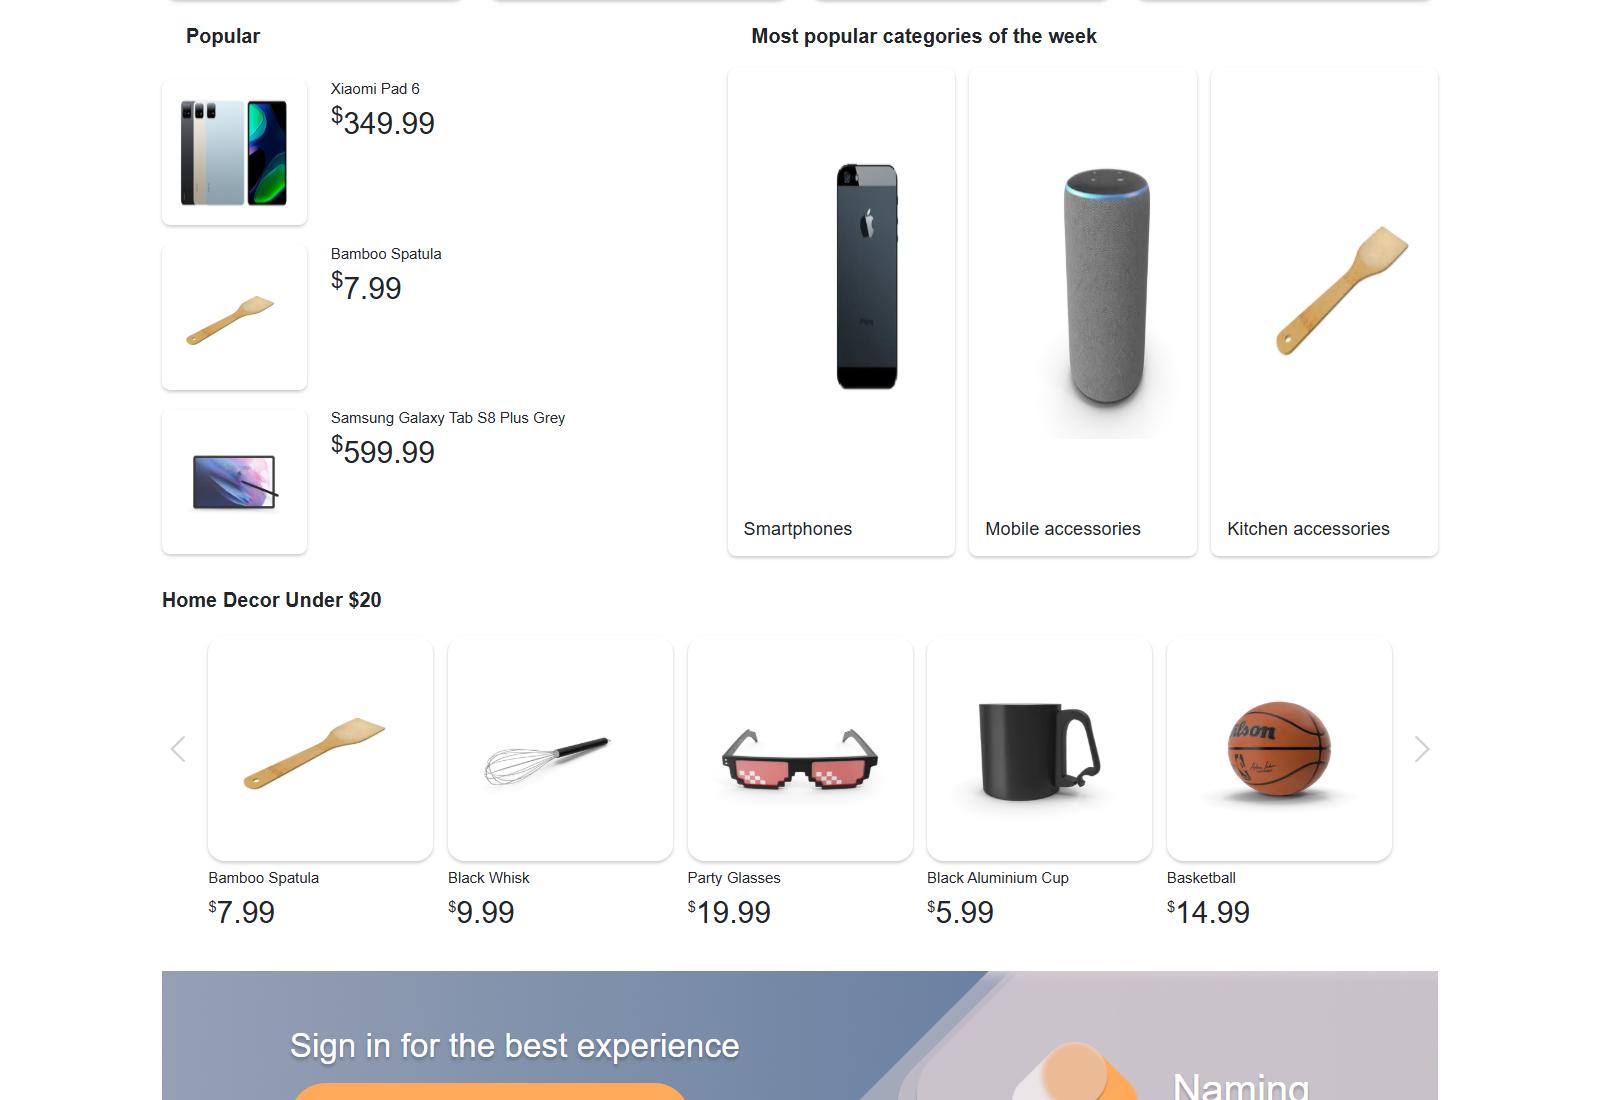
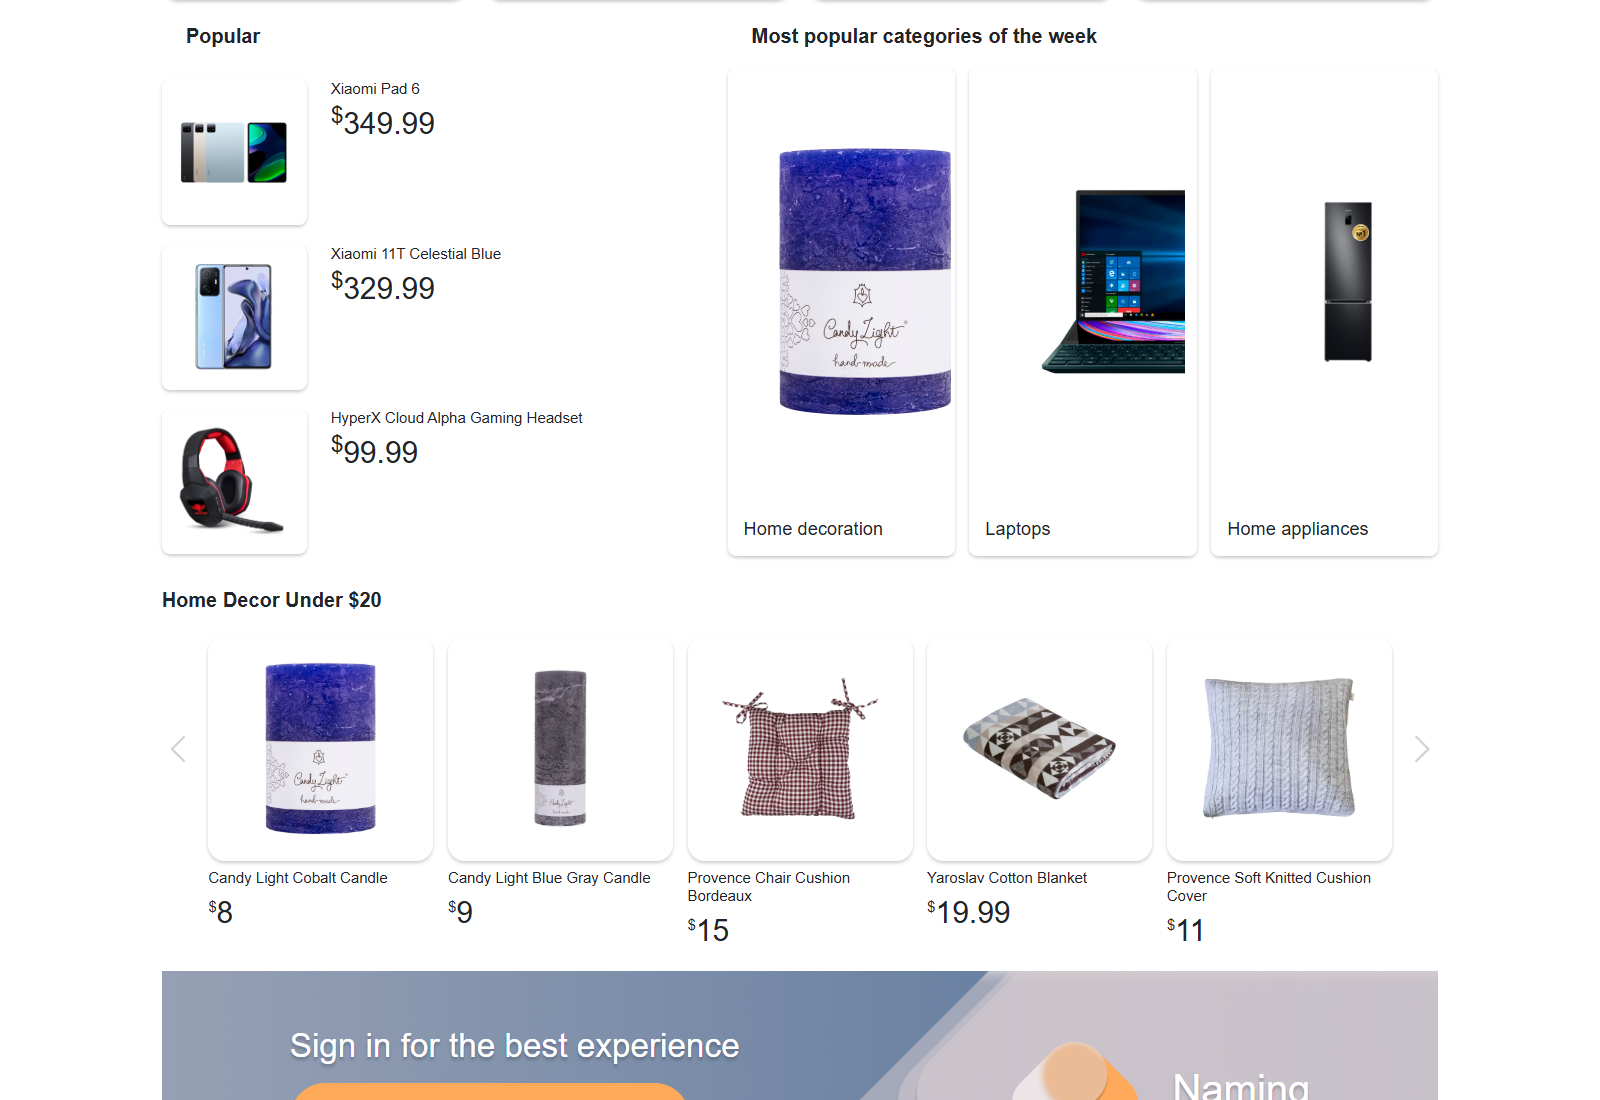
chore: update project overview and sign-in UI

diff --git a/wwwroot/js/site.js b/wwwroot/js/site.js
@@ -1,4 +1,4 @@
-// Please see documentation at https://learn.microsoft.com/aspnet/core/client-side/bundling-and-minification
+// Please see documentation at https://learn.microsoft.com/aspnet/core/client-side/bundling-and-minification
 // for details on configuring this project to bundle and minify static web assdo
 document.addEventListener("submit", e => {
     const form = e.target;
@@ -58,16 +58,32 @@ document.addEventListener("submit", e => {
     }
     if (form.id === "auth-modal-form") {
         e.preventDefault();
+        if (form.getAttribute("aria-busy") === "true") return;
 
         const messageEl = document.getElementById("message");
         const submitBtn = document.querySelector('[form="auth-modal-form"][type="submit"]');
+        const submitLabel = submitBtn?.querySelector(".auth-submit__label");
+        const progressEl = document.getElementById("auth-progress");
+        const modal = document.getElementById("authModal");
+        const controller = new AbortController();
+        const cancelRequest = () => controller.abort();
+        let signedIn = false;
 
+        form.setAttribute("aria-busy", "true");
         if (submitBtn) submitBtn.disabled = true;
+        submitBtn?.classList.add("is-loading");
+        if (submitLabel) submitLabel.textContent = "Signing in…";
+        if (progressEl) progressEl.hidden = true;
         if (messageEl) { messageEl.textContent = ""; messageEl.className = ""; }
+        modal?.addEventListener("hidden.bs.modal", cancelRequest, { once: true });
+        const progressTimer = setTimeout(() => {
+            if (progressEl) progressEl.hidden = false;
+        }, 4000);
 
         fetch("/Admin/Login", {
             method: 'POST',
-            body: new FormData(form)
+            body: new FormData(form),
+            signal: controller.signal
         })
             .then(r => {
                 if (r.status >= 500) {
@@ -77,6 +93,7 @@ document.addEventListener("submit", e => {
             })
             .then(j => {
                 if (j.status === 200) {
+                    signedIn = true;
                     window.location.reload();
                 } else {
                     if (messageEl) {
@@ -86,6 +103,7 @@ document.addEventListener("submit", e => {
                 }
             })
             .catch(error => {
+                if (error.name === "AbortError") return;
                 if (messageEl) {
                     messageEl.textContent = error instanceof TypeError
                         ? "Unable to reach the server. Check your connection and try again."
@@ -94,7 +112,15 @@ document.addEventListener("submit", e => {
                 }
             })
             .finally(() => {
-                if (submitBtn) submitBtn.disabled = false;
+                clearTimeout(progressTimer);
+                modal?.removeEventListener("hidden.bs.modal", cancelRequest);
+                if (progressEl) progressEl.hidden = true;
+                if (!signedIn) {
+                    form.removeAttribute("aria-busy");
+                    if (submitBtn) submitBtn.disabled = false;
+                    submitBtn?.classList.remove("is-loading");
+                    if (submitLabel) submitLabel.textContent = "Sign in";
+                }
             });
     }
     //Category

diff --git a/wwwroot/css/management-pages.css b/wwwroot/css/management-pages.css
@@ -505,6 +505,27 @@ body.theme-scope.modal-open, .theme-scope .modal {
     font-size: 14px;
     color: var(--ui-danger);
 }
+.auth-progress {
+    font-size: 14px;
+    color: var(--ui-muted);
+}
+.auth-submit {
+    min-width: 168px;
+}
+.auth-submit.is-loading {
+    cursor: wait;
+}
+.auth-submit__spinner {
+    display: none;
+}
+.auth-submit.is-loading .auth-submit__spinner {
+    display: inline-block;
+}
+@media (prefers-reduced-motion: reduce) {
+    .auth-submit__spinner {
+        animation: none;
+    }
+}
 @media (min-width: 992px) {
     .admin-sidebar {
         position: fixed !important;

diff --git a/README.md b/README.md
@@ -33,11 +33,15 @@ My main areas of responsibility were the backend API, data access and MVC produc
 
 The React storefront was built by the frontend team and has its own repository. These screenshots show it running locally with the deployed AMZN API and demo data from Azure SQL Database.
 
-**Homepage** with category sections and product collections.
+**Homepage overview** with three main categories, four product groups, popular items and the under-$20 collection.
 
+<p align="center">
 <a href="docs/images/storefront-home.png">
-  <img src="docs/images/storefront-home.png" alt="React storefront homepage with category cards and product sections from the AMZN API" width="900">
+  <img src="docs/images/storefront-home.png" alt="Complete React homepage overview with three main categories, four groups of four products, popular collections and products under $20" width="700">
 </a>
+</p>
+
+**[Open the full-size homepage overview](docs/images/storefront-home.png)**
 
 Click any preview to open the full-size screenshot.
 
@@ -54,7 +58,7 @@ Click any preview to open the full-size screenshot.
     </td>
     <td valign="top">
       <a href="docs/images/storefront-search.png"><img src="docs/images/storefront-search.png" alt="Storefront search suggestions with matching products" width="420"></a><br>
-      Product suggestions as the user types.<br>
+      Product suggestions with prices, brands and categories.<br>
       <a href="docs/images/storefront-search.png">Open full-size screenshot</a>
     </td>
   </tr>
